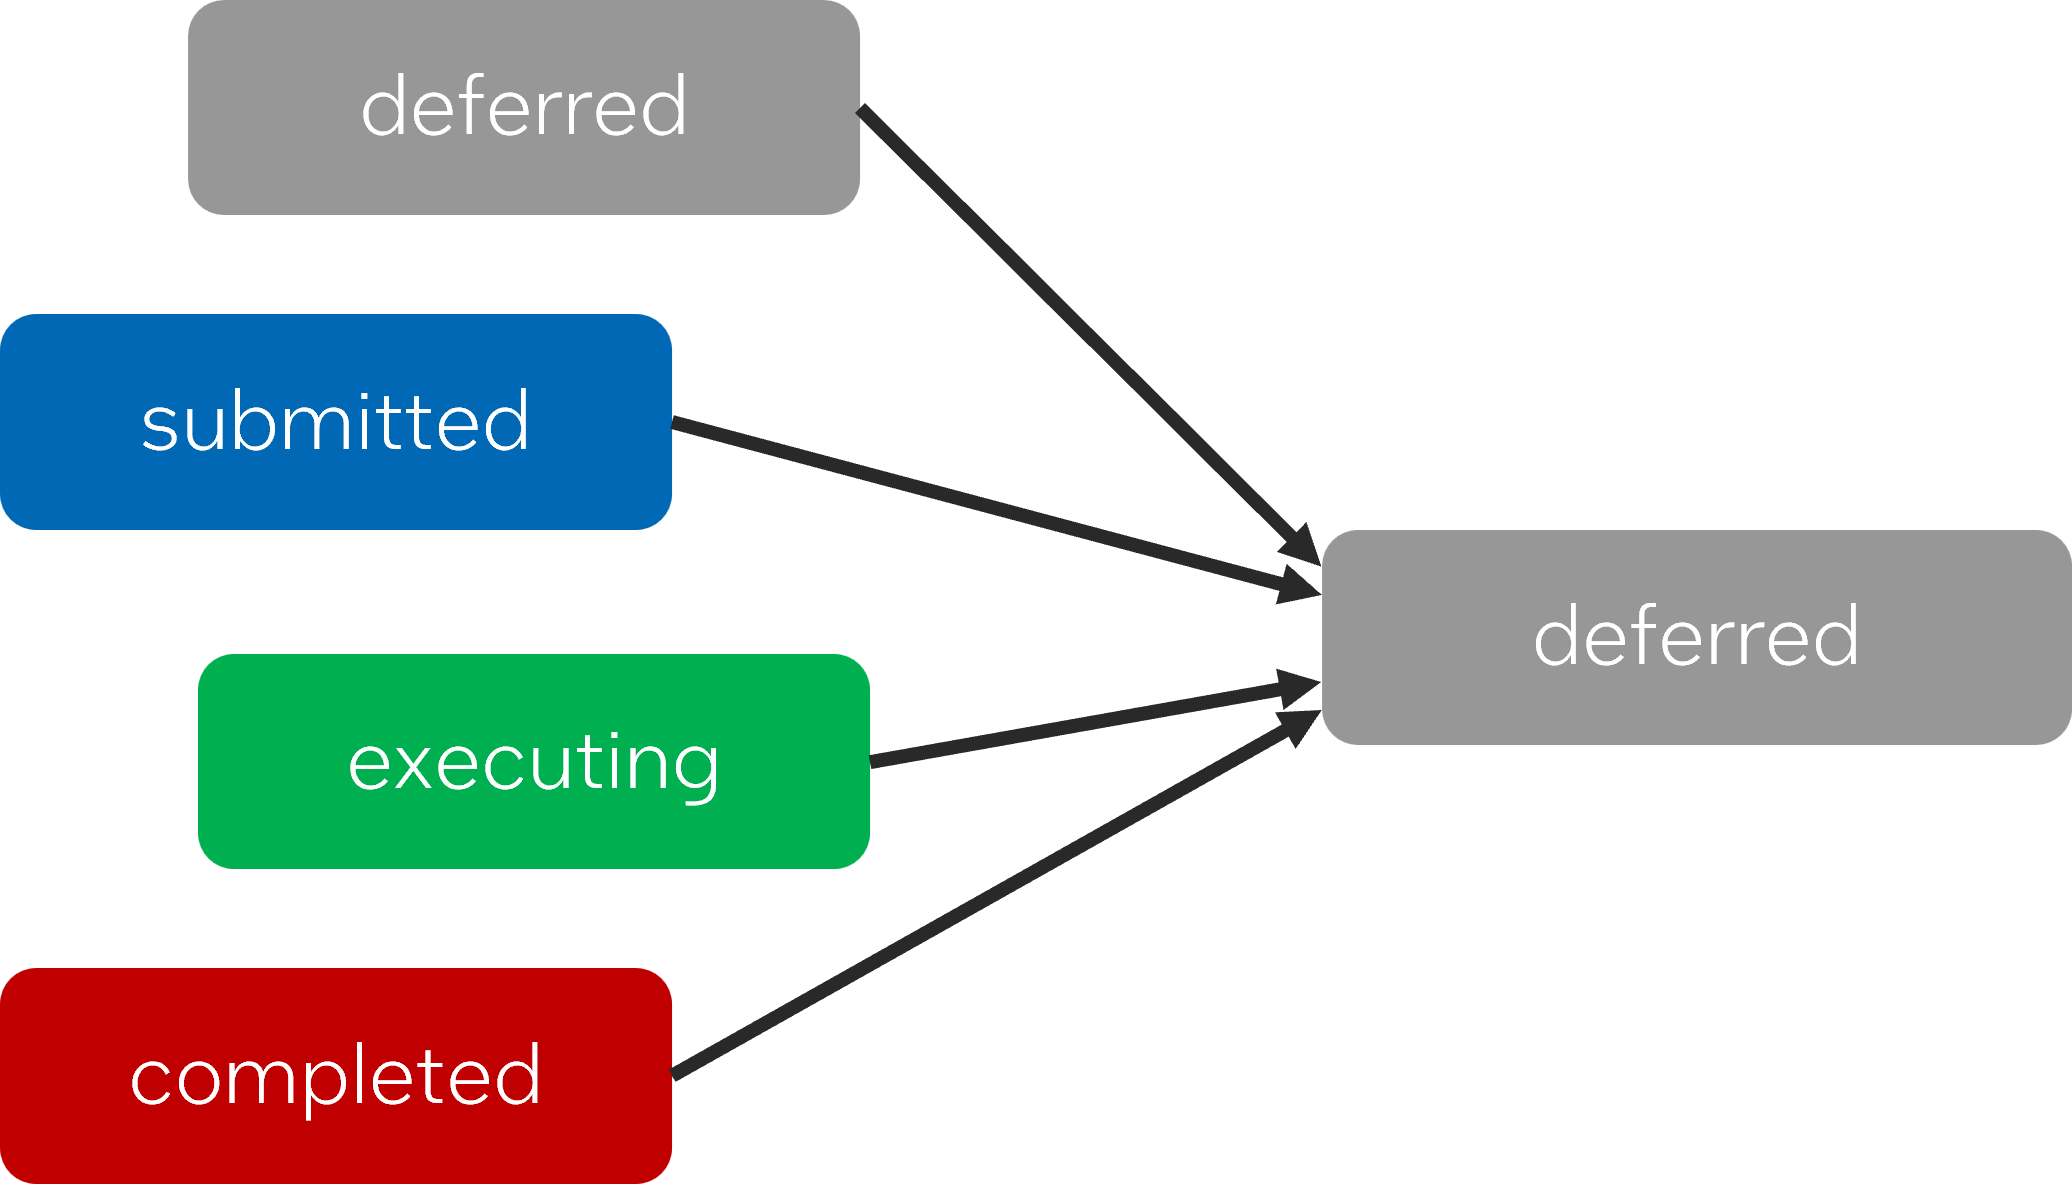
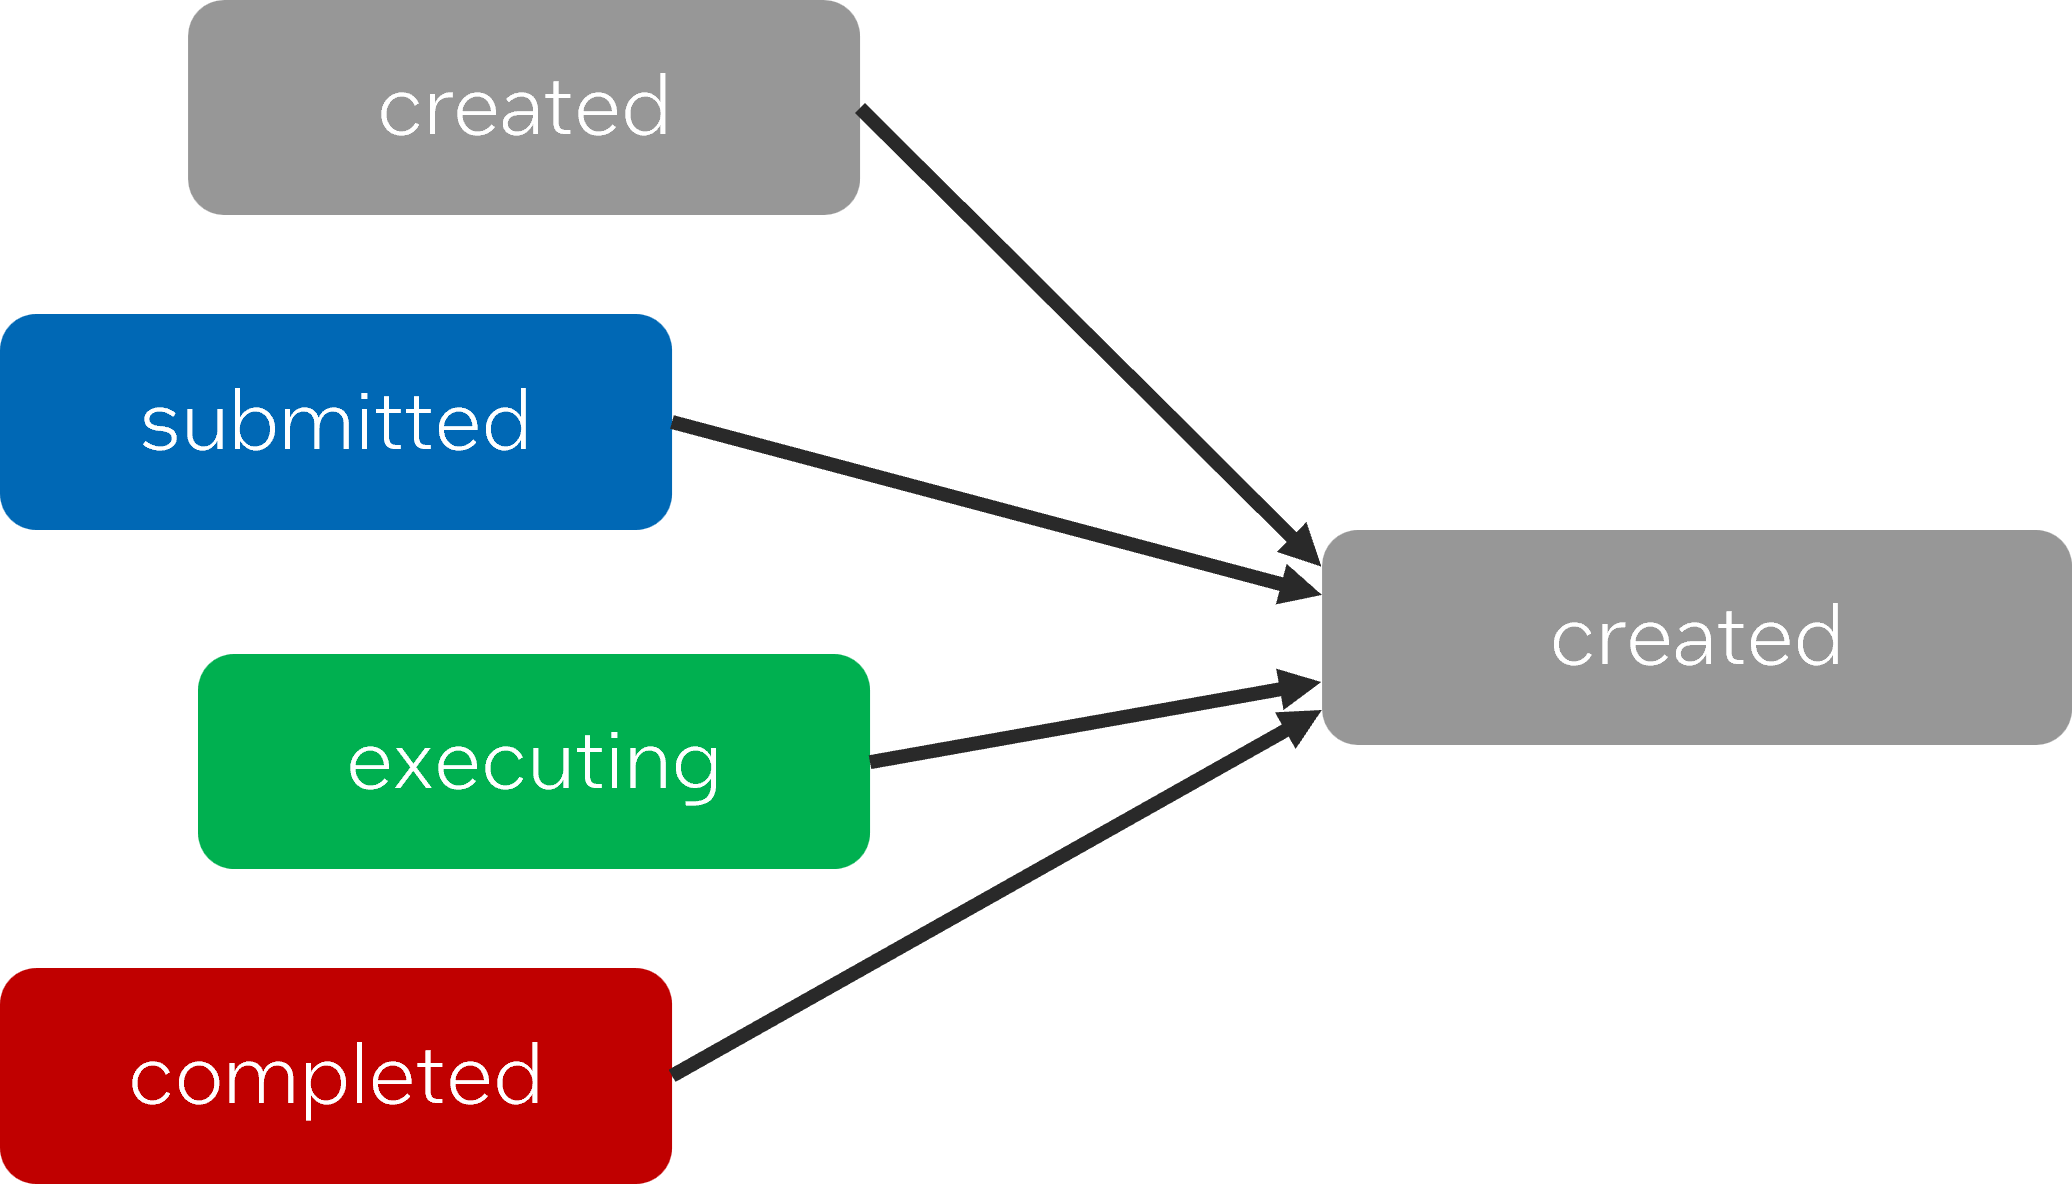
Updated naming in task_group_dynamic_dependencies RFC and added more details

Changed region(s): [[0.7413, 0.5, 0.8958, 0.5625], [0.1853, 0.0625, 0.3398, 0.125]]

diff --git a/rfcs/proposed/task_group_dynamic_dependencies/README.md b/rfcs/proposed/task_group_dynamic_dependencies/README.md
@@ -12,10 +12,10 @@ straightforward to express by the revised API: Dynamic task graphs which are
 not trees. This proposal expands `tbb::task_group` to make additional use cases 
 easier to express.
 
-The current class definition in the latest oneTBB specification for 
-`tbb::task_group` is shown below. Note the existing `defer` function because this 
-function and its return type, `task_handle`, are the foundation of our proposed
-extensions:
+The class definition from section **[scheduler.task_group]** in the oneAPI 
+Threading Building Blocks (oneTBB) Specification 1.3-rev-1 for `tbb::task_group` 
+is shown below. Note the existing `defer` function because this function and 
+its return type, `task_handle`, are the foundation of our proposed extensions:
 
     class task_group {
     public:
@@ -70,12 +70,12 @@ and when dependencies between tasks are specified.
 
 For the sake of discussion, let’s label four points in a task’s lifetime: 
 
-1. deferred
+1. created
 2. submitted
 3. executing
 4. completed
 
-A deferred task has been allocated but is not yet known to the scheduling
+A created task has been allocated but is not yet known to the scheduling
 algorithm and so cannot begin executing. A submitted task is known to the 
 scheduling algorithm and whenever its incoming dependencies (predecessor tasks)
 are complete it may be scheduled for execution. An executing task has started 
@@ -84,12 +84,12 @@ executed fully to completion.
 
 In the current specification for `task_group`, the function `task_group::defer`
 already provides a mechanism to separate task creation from submission. 
-`task_group::defer` returns a `tbb::task_handle`, which represents a deferred 
-task. A deferred task is in the deferred state until it is submitted via
+`task_group::defer` returns a `tbb::task_handle`, which represents a created 
+task. A created task is in the created state until it is submitted via
 the `task_group::run` or `task_group::run_and_wait` functions. In the current 
 specification of `task_group`, accessing a `task_handle` after it is submitted
 via one of the run functions is undefined behavior. Currently, therefore, a 
-`task_handle` can only represent a deferred task. And currently, any task
+`task_handle` can only represent a created task. And currently, any task
 that is run can immediately be scheduled for execution since there is no notion
 of task dependencies for task_group.
 
@@ -106,7 +106,7 @@ execute.
 
 The obvious next extension is to add a mechanism for specifying dependencies
 between tasks. In the most conservative view, it should only be legal to add 
-additional predecessors / in-dependencies to tasks in the deferred state. 
+additional predecessors / in-dependencies to tasks in the created state. 
 After a task starts is completed, it doesn’t make sense to add additional 
 predecessors, since it’s too late for them to delay the start of the task’s 
 execution. 
@@ -144,11 +144,11 @@ for adding `h1` as an in-dependence / predecessor of `h2` include:
 - `h2 = defer([]() { … }, h1)`
 - `make_edge(h1, h2)`
 
-We propose including both of the first two options. Similarly, there could be
-versions of these two functions the accepted multiple predecessors at once:
+We propose including the first option. Similarly, there could be
+versions of these two functions the accepted multiple predecessors 
+at once:
 
 - `h.add_predecessors(h1, ..., hn)`
-- `h = defer([]() { … }, h1, ..., hn)`
 
 In the general case, it would be undefined behavior to add a new predecessor
 to a task in the submitted, executing or completed states.
@@ -196,17 +196,56 @@ complete, and its predecessors are the tasks modifying the predecessors!
 
 We therefore propose a very limited extension that allows the transfer of 
 all the successors of a currently executing task to become the successors 
-of a different deferred task. This function can only access the successors
+of a different created task. This function can only access the successors
 of the currently executing task, and those tasks are prevented from executing 
 by a dependence on the current task itself, so we can ensure that we can safely 
 update the incoming dependencies for those tasks without worrying about any 
 potential race.
 
 One possible spelling for this function would be `transfer_successors_to(h)`, 
-where `h` is a `task_handle` to a deferred task and the 
+where `h` is a `task_handle` to a created task and the 
 `transfer_successors_to` function must be called from within a task. Calling
 this function from outside a task, or passing anything other than a task in
-the deferred state is undefined behavior.
+the created state is undefined behavior.
+
+### Proposed changes to task_handle
+
+    namespace oneapi {
+    namespace tbb {
+        class task_handle {
+        public:
+
+            // existing functions
+            task_handle();
+            task_handle(task_handle&& src);
+            ~task_handle();
+            task_handle& operator=(task_handle&& th);
+            explicit operator bool() const noexcept;
+
+            // proposed additions
+            void add_predecessor(task_handle& th);
+            void add_successor(task_handle& th);
+        };
+
+        void transfer_successors_to(task_handle& th);
+    }
+    }
+
+
+#### void task_handle::add_predecessor(task_handle& th);
+
+Adds `th` as a predecessor that must complete before the task represnted by
+`*this` can start executing.
+
+#### void task_handle::add_successor(task_handle& th);
+
+Adds `th` as a successor that cannot start executing until the task represented by 
+`*this` is complete.
+
+#### void transfer_successors_to(task_handle& th);
+
+Transfers all of the successors from the currently executing task to the task 
+represented by `th`.
 
 ### Small examples
 
@@ -241,7 +280,7 @@ The dependency graph for this example is:
 
 The example below shows a graph where the dependencies are determined 
 dynamically. The state of the predecessors may be unknown – they may 
-be deferred, submitted, executing or completed. Although not shown,
+be created, submitted, executing or completed. Although not shown,
 let's assume that the user's `users::find_predecessors` function 
 returns, based on application logic, the tasks that must complete 
 before the new work can start.
